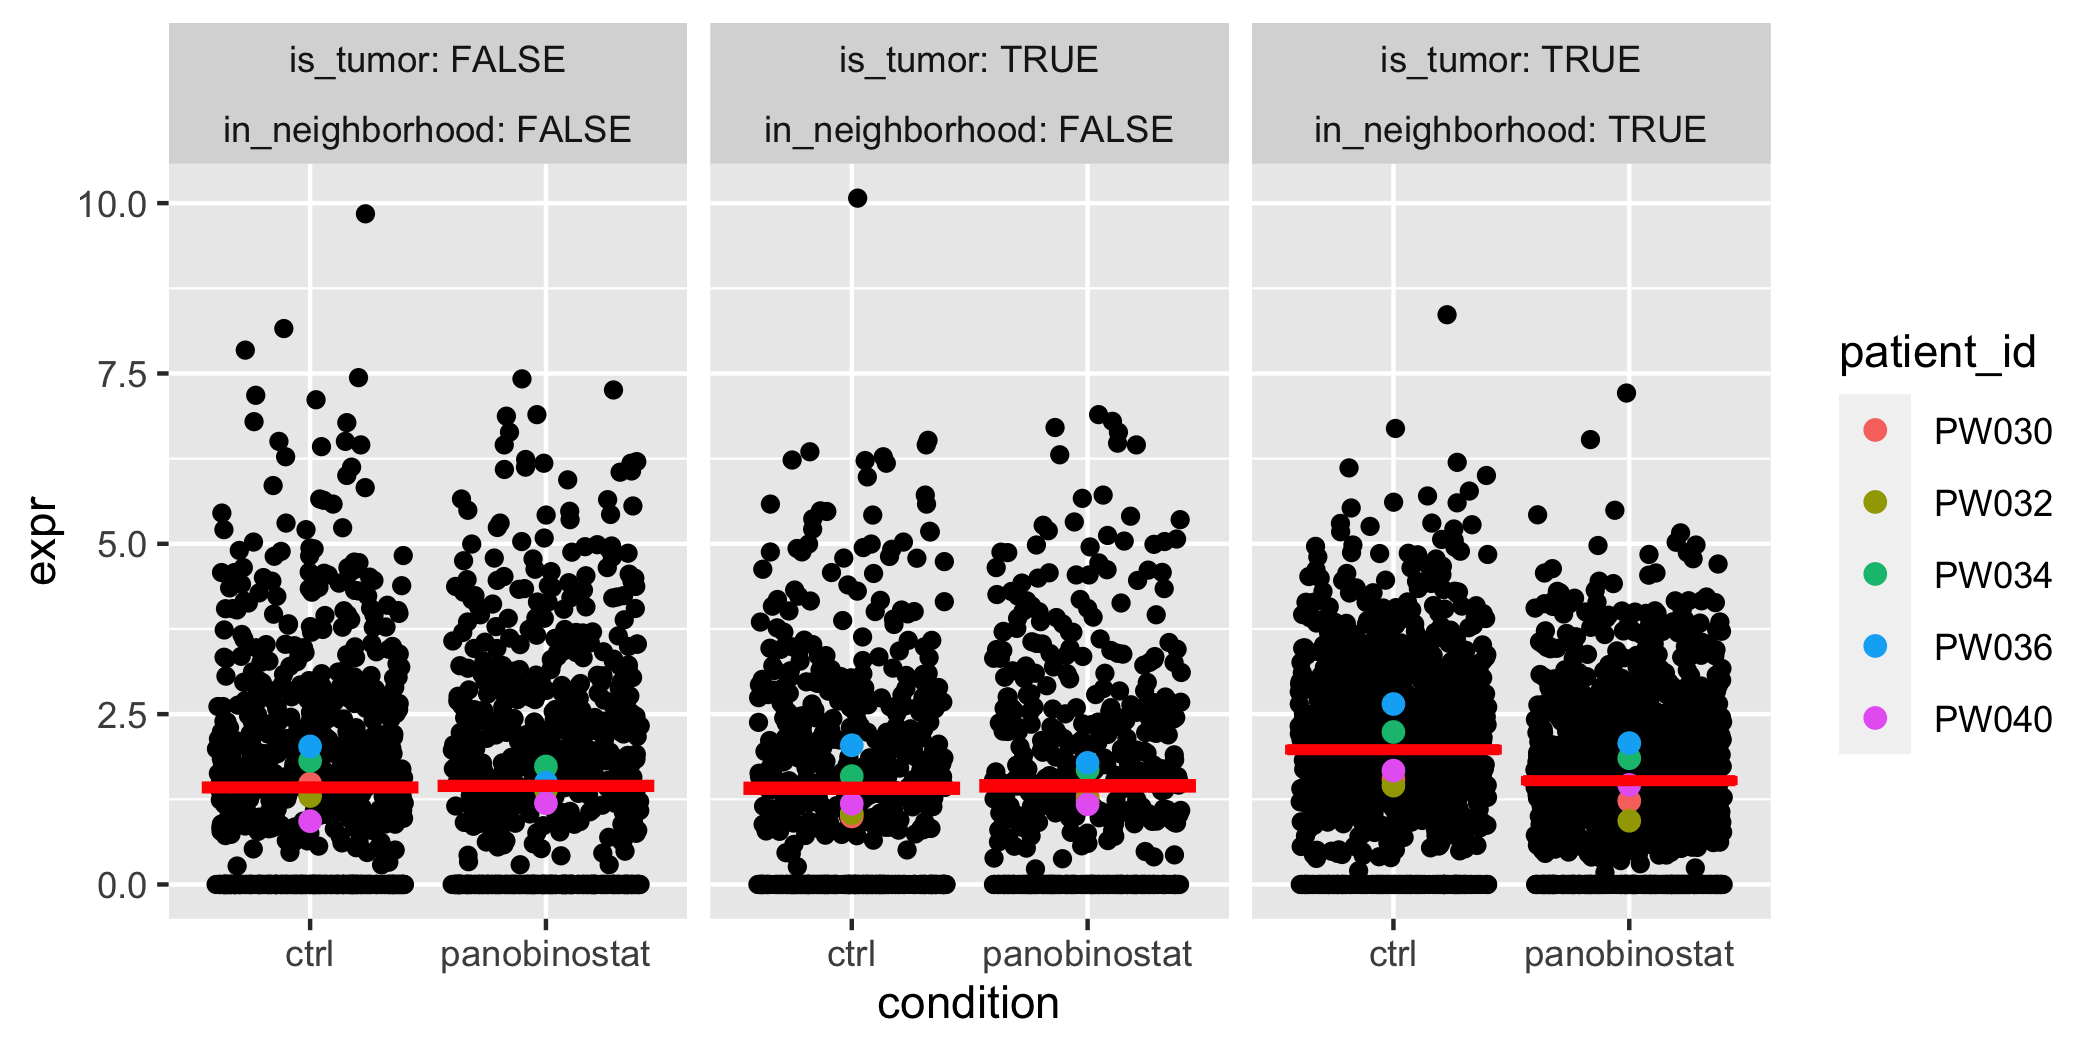
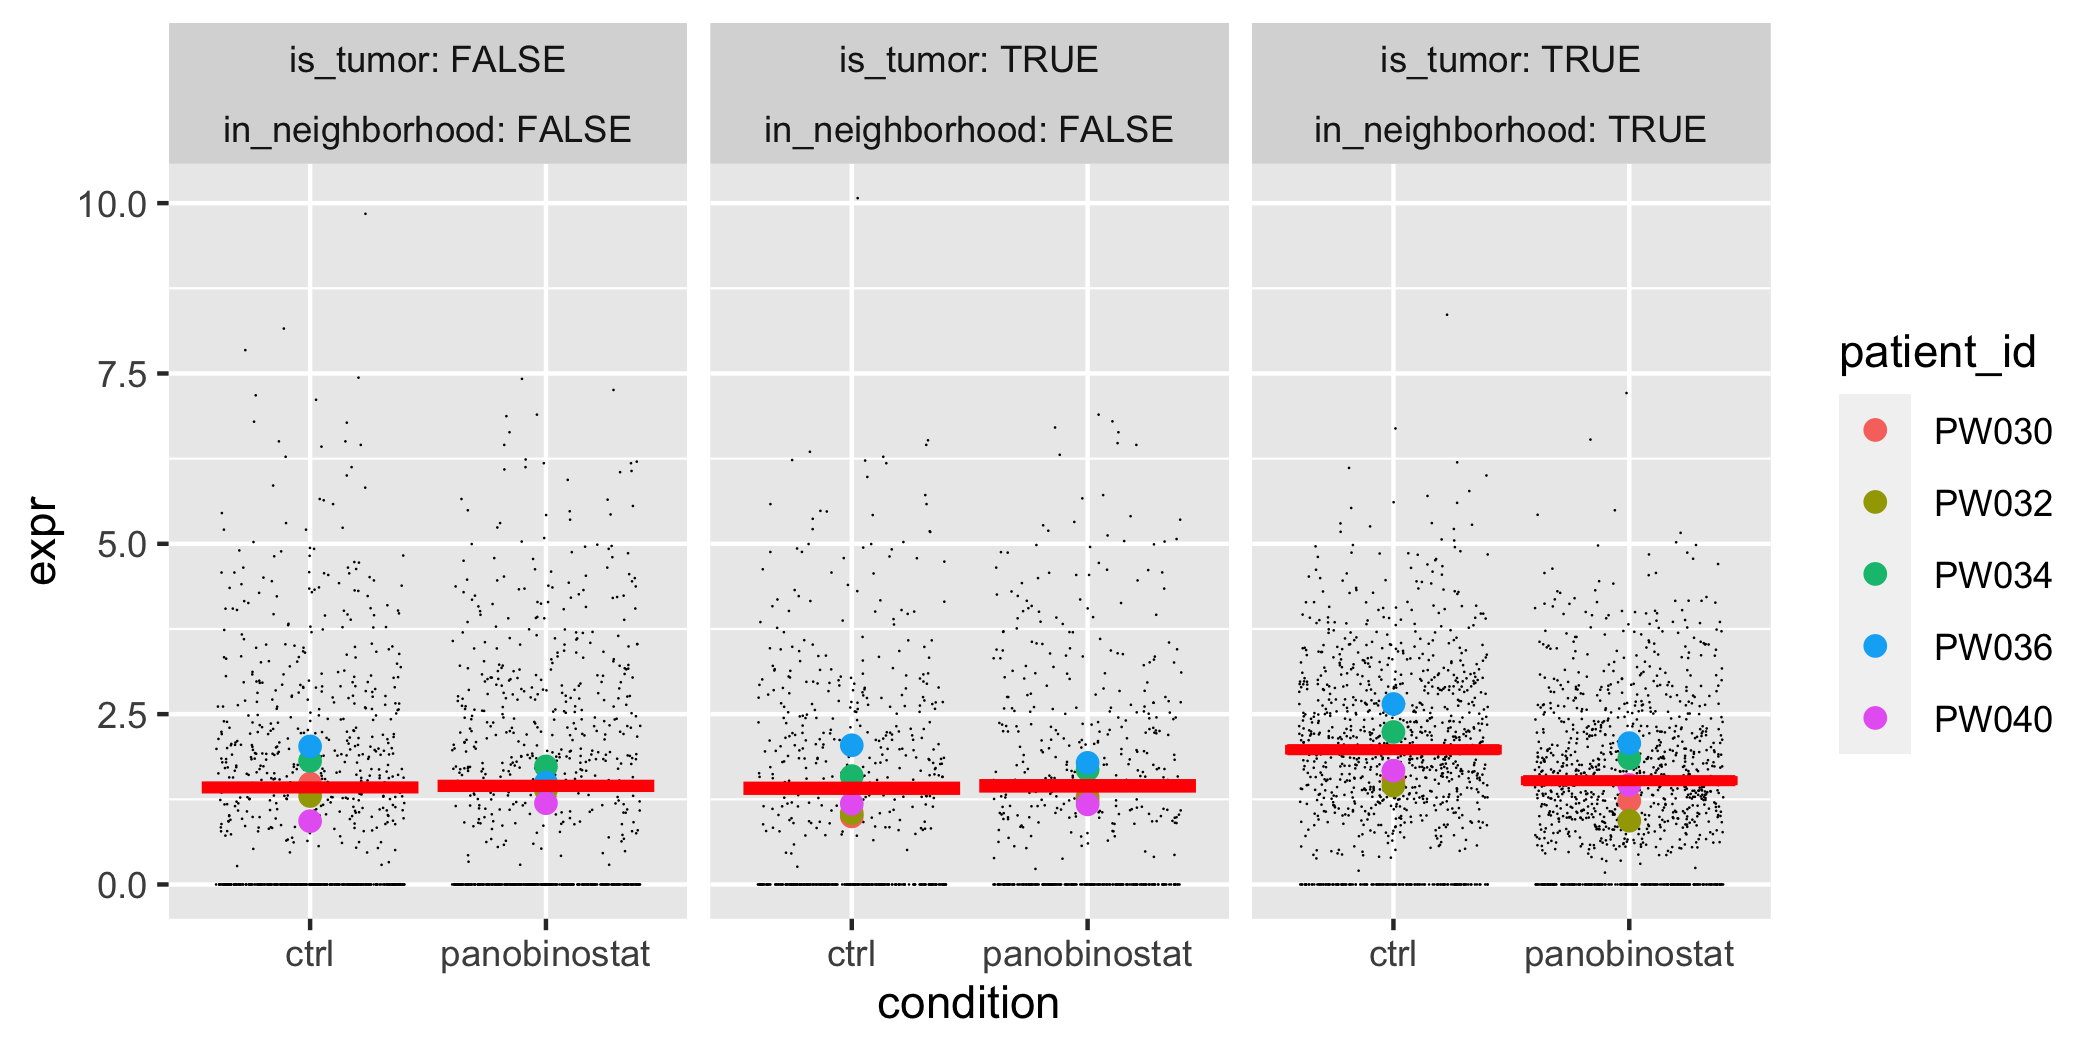
Update README

diff --git a/README.md b/README.md
@@ -331,10 +331,10 @@ neighborhoods %>%
 This analysis was conducted without using any cell type information.
 Often, additional cell type information is available or can be annotated
 manually. Here, we can for example distinguish the tumor cells from
-cells of the microenvironment, because all tumors had a chromosome 10
+cells of the microenvironment, because the tumors had a chromosome 10
 deletion and chromosome 7 duplication. We build a simple classifier to
 distinguish the cells accordingly. (This is just to illustrate the
-process, in reality, we would use more sophisticated methods.)
+process; for a real analysis, we would use more sophisticated methods.)
 
 ``` r
 tumor_label_df <- tibble(cell_id = colnames(fit),
@@ -418,11 +418,10 @@ as_tibble(colData(fit)) %>%
   mutate(is_tumor = tumor_label_df$is_tumor) %>%
   mutate(in_neighborhood = id %in% filter(tum_nei, name == sel_gene)$neighborhood[[1]]) %>%
   ggplot(aes(x = condition, y = expr)) +
-    geom_jitter() +
+    geom_jitter(size = 0.3, stroke = 0) +
     geom_point(data = . %>% summarize(expr = mean(expr), .by = c(condition, patient_id, is_tumor, in_neighborhood)),
                aes(color = patient_id), size = 2) +
     stat_summary(fun.data = mean_se, geom = "crossbar", color = "red") +
-    # scale_y_log10()
     facet_wrap(vars(is_tumor, in_neighborhood), labeller = label_both) 
 ```
 
